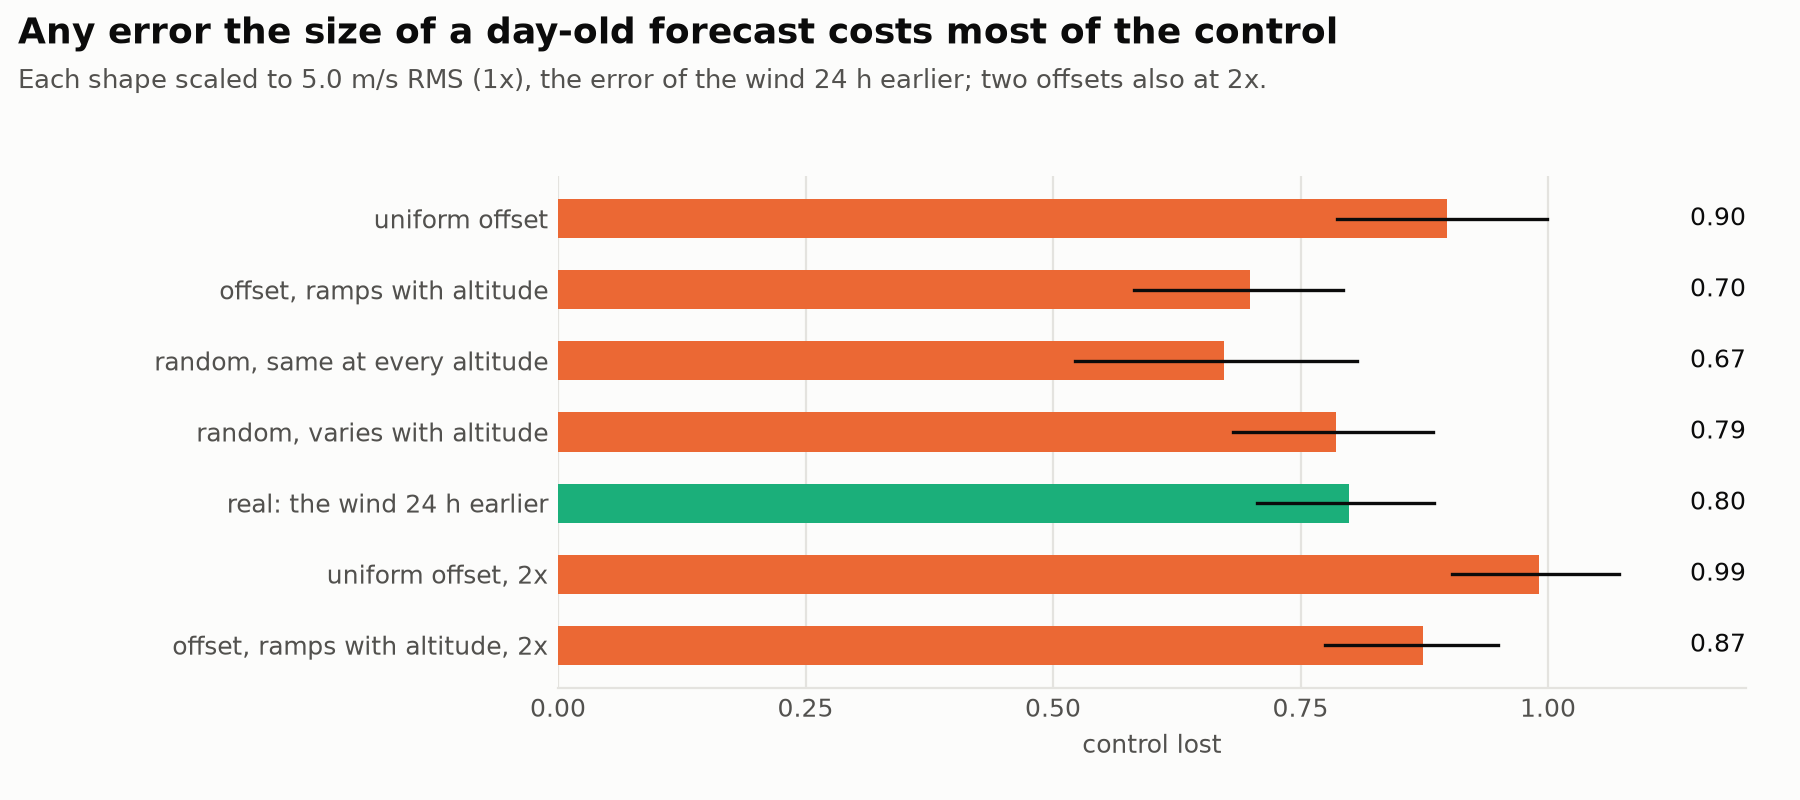
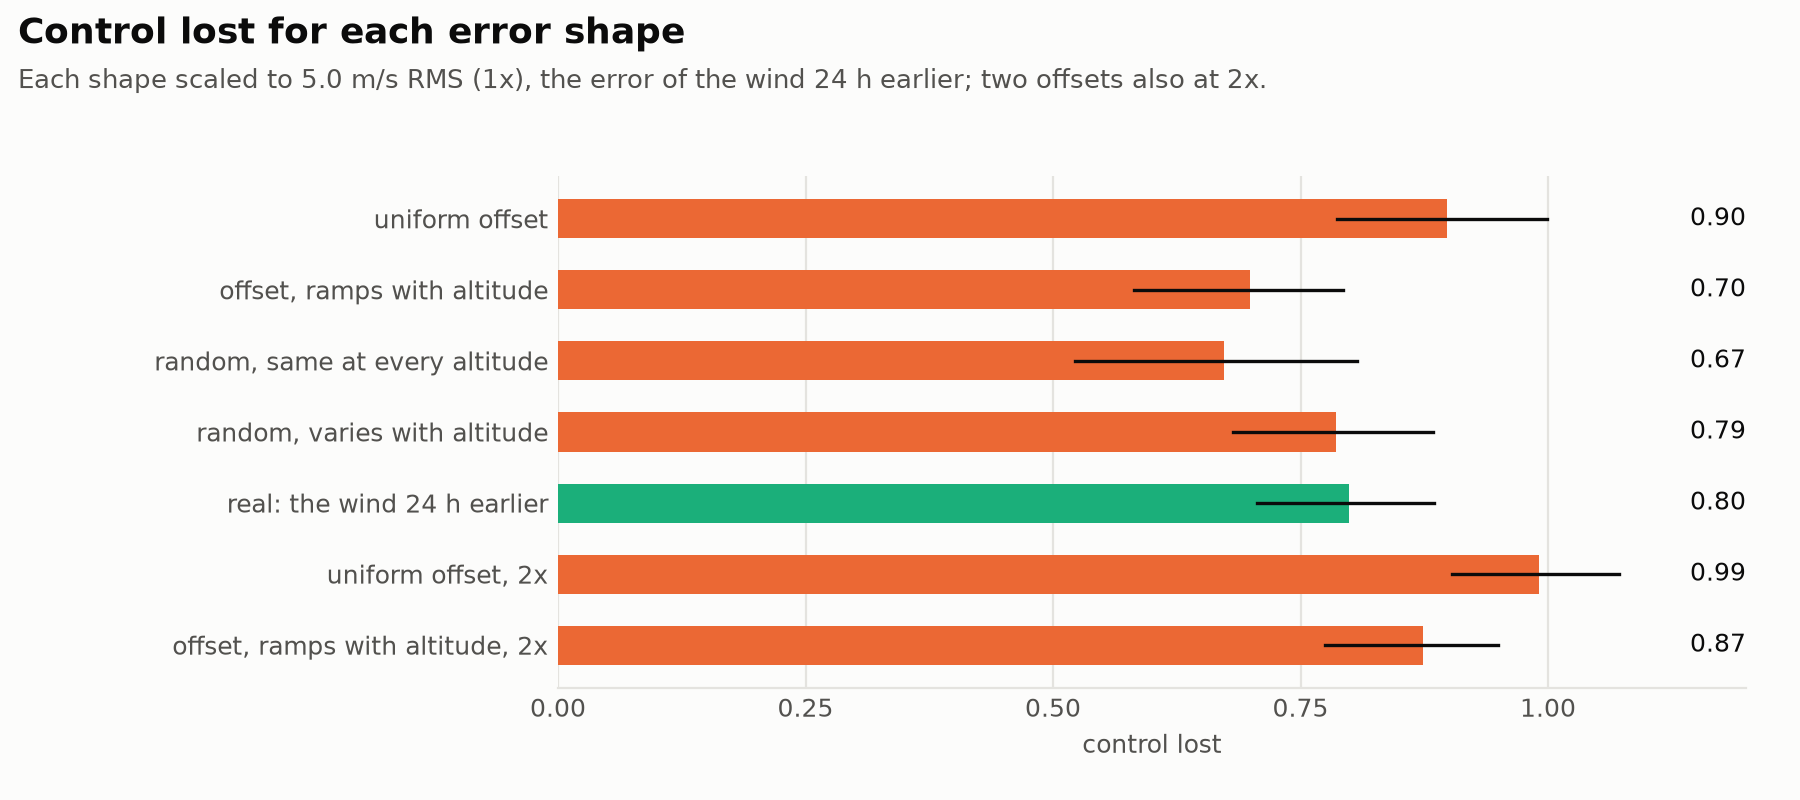
Fidelity figures in plain terms: titles name what is plotted, no threshold line, no picked-out point, the real error in its own colour

Changed region(s): [[0.0, 0.0, 0.7467, 0.0625]]

diff --git a/scripts/plot_fidelity.py b/scripts/plot_fidelity.py
@@ -12,7 +12,7 @@ the seeds. Each copy is scored against MPC on the truth in its own arm.
     shapes.png        score of each error shape at 1x, and the two offsets at 2x, a day-old forecast's error
     interactions.png  levels at two climb limits; frames at three horizons
 
-The dashed line at 0.10 is a reading aid, not a test: a loss under a tenth of MPC's control (assumed).
+Titles name what is plotted, not what it shows; the numbers under them are the reading.
 """
 
 import argparse
@@ -30,7 +30,6 @@ from balloon_sim.fidelity import FRAMES, GRID, LEVELS, SHAPES, score
 
 INK, MUTED, GRIDLINE, SURFACE = "#0b0b0b", "#52514e", "#e4e3df", "#fcfcfb"
 BLUE, ORANGE, AQUA = "#2a78d6", "#eb6834", "#1baf7a"  # categorical slots 1-3, validated all-pairs
-SMALL = 0.10
 
 LABEL = {
     "levels:10": "10", "levels:9": "9", "levels:6": "6", "levels:3": "3", "levels:2": "2", "levels:1": "1",
@@ -65,6 +64,14 @@ def load(path: Path) -> dict:
     return out
 
 
+FAMILY = {"coarse": BLUE, "added": ORANGE, "real": AQUA}
+
+
+def spearman(x, y) -> float:
+    ranks = lambda a: np.argsort(np.argsort(a)).astype(float)
+    return float(np.corrcoef(ranks(np.asarray(x)), ranks(np.asarray(y)))[0, 1])
+
+
 def style(ax, ylabel=True) -> None:
     ax.set_facecolor(SURFACE)
     for side in ("top", "right"):
@@ -78,7 +85,6 @@ def style(ax, ylabel=True) -> None:
     ax.set_yticks([0, 0.25, 0.5, 0.75, 1.0])
     if ylabel:
         ax.set_ylabel("control lost", color=MUTED, fontsize=9)
-    ax.axhline(SMALL, color=MUTED, linewidth=0.8, linestyle=(0, (3, 3)))
 
 
 def bars(ax, xs, s, color) -> None:
@@ -97,20 +103,24 @@ def title(fig, text, sub) -> None:
 def test_figure(r: dict, out: Path) -> None:
     base = {k[3] + (f"@{k[4]:g}" if k[4] not in (0.0, 1.0) else ""): v for k, v in r.items() if k[0] == "base"}
     fig, axes = plt.subplots(1, 2, figsize=(10, 4.2), sharey=True, facecolor=SURFACE)
-    fig.subplots_adjust(left=0.07, right=0.98, top=0.78, bottom=0.14, wspace=0.08)
-    title(fig, "Control loss follows the wind error, not the level-difference error",
-          "Station keeping, 32 launches. One dot per degraded copy. Rank correlation: wind error +0.90, level differences +0.39.")
+    fig.subplots_adjust(left=0.07, right=0.98, top=0.74, bottom=0.14, wspace=0.08)
+    names = list(base)
+    scores, wind, steer = (np.array([base[n][f] for n in names]) for f in ("score", "wind", "steer"))
+    picks = np.random.default_rng(0).integers(0, len(names), (10_000, len(names)))
+    gap = np.array([spearman(steer[i], scores[i]) - spearman(wind[i], scores[i]) for i in picks])
+    title(fig, "Control lost against two error measures",
+          f"Station keeping, 32 launches, one dot per copy ({len(names)}). Rank correlation with control lost: wind error {spearman(wind, scores):+.2f}, "
+          f"level-difference error {spearman(steer, scores):+.2f};\ndifference {np.mean(gap):+.2f} "
+          f"[{np.percentile(gap, 2.5):+.2f}, {np.percentile(gap, 97.5):+.2f}], 95% bootstrap over copies.")
     for ax, field, name in ((axes[0], "wind", "wind error (m/s, RMS)"), (axes[1], "steer", "level-difference error (m/s, RMS)")):
         style(ax, ylabel=ax is axes[0])
         for name_, v in base.items():
-            coarse = name_.split(":")[0] in ("levels", "frames", "grid")
-            ax.plot(v[field], v["score"], "o", color=BLUE if coarse else ORANGE, markersize=8, markeredgecolor=SURFACE, markeredgewidth=2)
-        o = base["offset"]
-        ax.annotate("uniform offset\nloses 0.90", (o[field], o["score"]), xytext=(14, -62) if field == "steer" else (-120, 6),
-                    textcoords="offset points", fontsize=8.5, color=INK, va="top", arrowprops=dict(arrowstyle="-", color=MUTED, linewidth=0.8))
+            kind = "coarse" if name_.split(":")[0] in ("levels", "frames", "grid") else "real" if name_ == "persistence" else "added"
+            ax.plot(v[field], v["score"], "o", color=FAMILY[kind], markersize=8, markeredgecolor=SURFACE, markeredgewidth=2)
         ax.set_xlabel(name, color=MUTED, fontsize=9)
-    axes[0].plot([], [], "o", color=BLUE, label="coarser copy (levels, frames, grid)")
-    axes[0].plot([], [], "o", color=ORANGE, label="error shape at 1x or 2x")
+    axes[0].plot([], [], "o", color=BLUE, label="coarser copy: levels, frames, grid (14)")
+    axes[0].plot([], [], "o", color=ORANGE, label="added error: offsets, random, at 1x or 2x (6)")
+    axes[0].plot([], [], "o", color=AQUA, label="real error: the wind 24 h earlier (1)")
     axes[0].legend(loc="lower right", frameon=False, fontsize=8.5, labelcolor=INK)
     fig.savefig(out / "test.png", dpi=200)
 
@@ -118,7 +128,7 @@ def test_figure(r: dict, out: Path) -> None:
 def ladders_figure(r: dict, out: Path) -> None:
     fig, axes = plt.subplots(1, 3, figsize=(11, 3.8), sharey=True, facecolor=SURFACE, gridspec_kw=dict(width_ratios=[6, 5, 3]))
     fig.subplots_adjust(left=0.06, right=0.98, top=0.76, bottom=0.16, wspace=0.12)
-    title(fig, "How coarse a wind model can be", "Share of MPC's control lost at each step down; bars are 95% intervals. Dashed: a tenth lost.")
+    title(fig, "Control lost along each coarsening ladder", "Station keeping, 32 launches. Bars are 95% intervals over the launches.")
     for ax, (name, ladder, note) in zip(axes, (("altitude levels (truth: 18)", LEVELS, ""), ("frames in time (truth: hourly)", FRAMES, ""),
                                                 ("grid (truth: 2°)", GRID, ""))):
         style(ax, ylabel=ax is axes[0])
@@ -135,7 +145,7 @@ def shapes_figure(r: dict, out: Path) -> None:
     items += [(LABEL[c] + ", 2x", r[("base", 1.0, 12.0, c, 2.0)]) for c in ("offset", "offset_altitude")]
     fig, ax = plt.subplots(figsize=(9, 4), facecolor=SURFACE)
     fig.subplots_adjust(left=0.31, right=0.97, top=0.78, bottom=0.14)
-    title(fig, "Any error the size of a day-old forecast costs most of the control",
+    title(fig, "Control lost for each error shape",
           "Each shape scaled to 5.0 m/s RMS (1x), the error of the wind 24 h earlier; two offsets also at 2x.")
     ax.set_facecolor(SURFACE)
     y = np.arange(len(items))[::-1]
@@ -160,7 +170,7 @@ def shapes_figure(r: dict, out: Path) -> None:
 def interactions_figure(r: dict, out: Path) -> None:
     fig, axes = plt.subplots(1, 2, figsize=(10, 3.9), sharey=True, facecolor=SURFACE)
     fig.subplots_adjust(left=0.07, right=0.98, top=0.76, bottom=0.16, wspace=0.1)
-    title(fig, "The levels loss is information, not reach; coarse frames stop a long horizon from paying",
+    title(fig, "Control lost: levels at two climb limits, frames at three horizons",
           "Left: the levels ladder at the base and twice the climb limit. Right: the frames ladder at three planning horizons.")
     ax = axes[0]
     style(ax)
